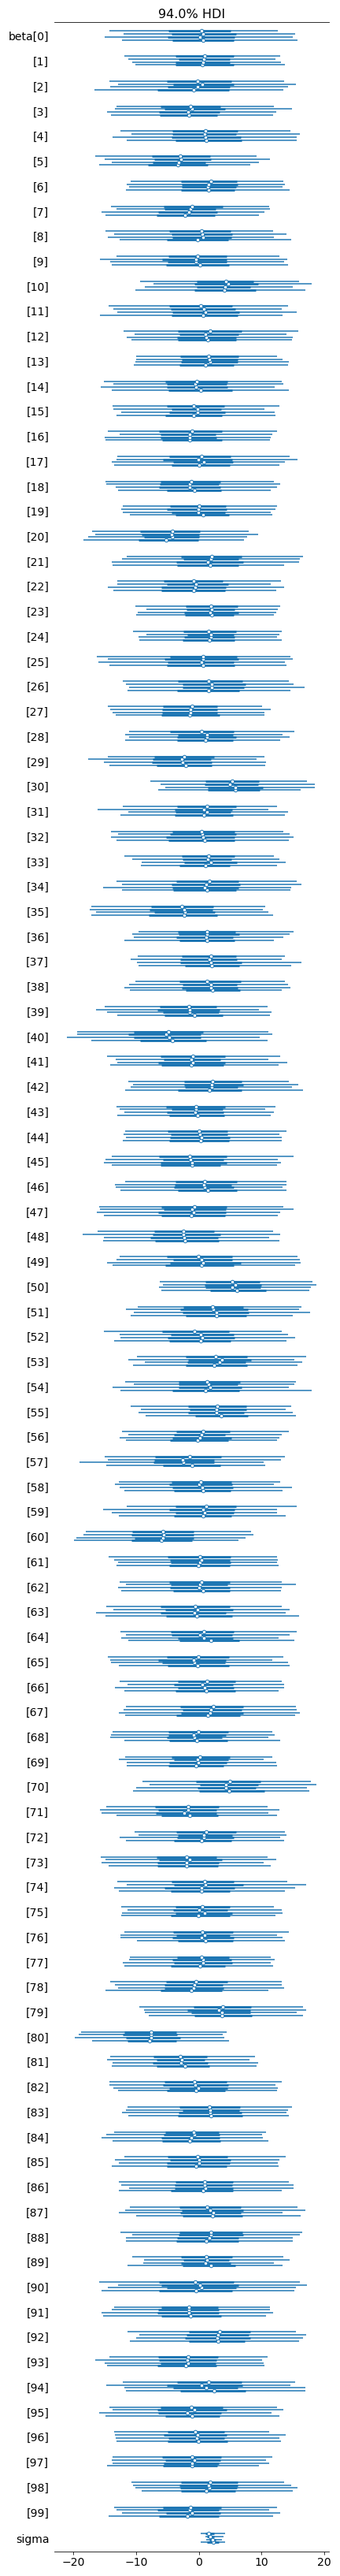
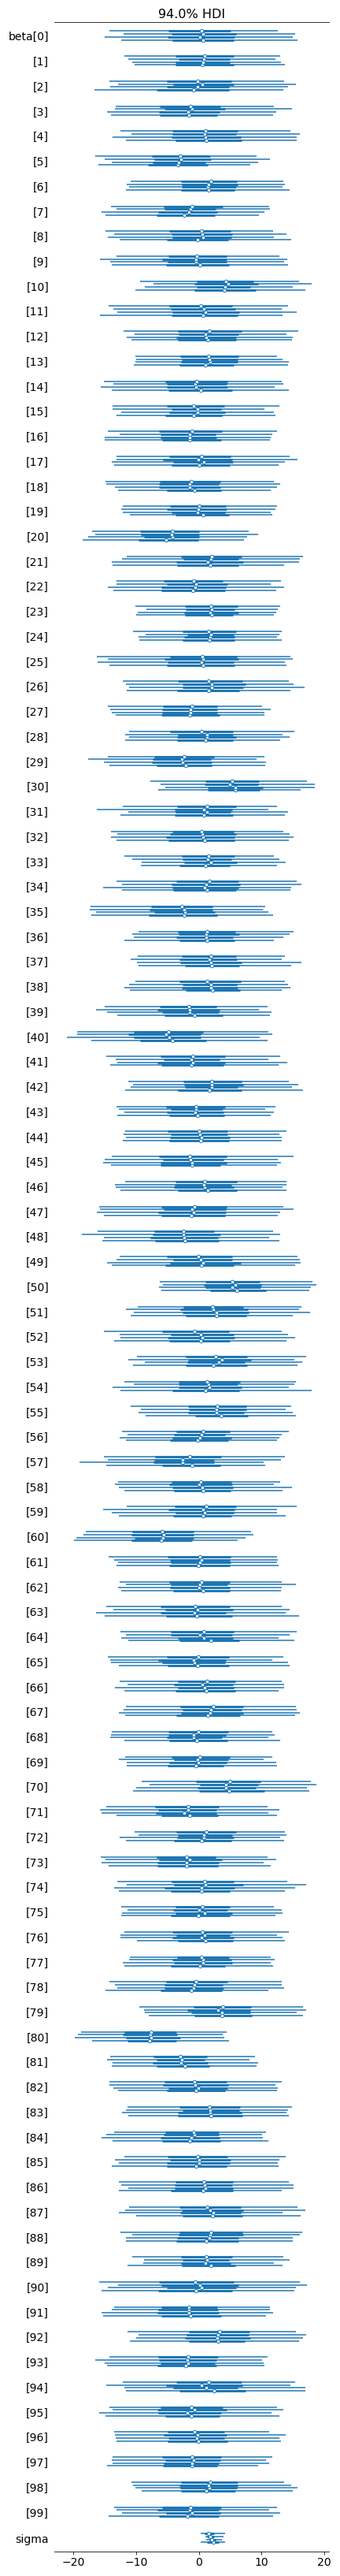
Lec19

Changed region(s): [[0.0602, 0.1873, 0.1505, 0.6867], [0.0602, 0.7803, 0.1505, 0.9988], [0.0903, 0.1248, 0.1505, 0.1561]]

diff --git a/static/slides/Lec19.html b/static/slides/Lec19.html
@@ -189,7 +189,7 @@ norm.x.distribution
 ```
 
 ```
-## &lt;pymc3.distributions.continuous.Normal object at 0x2aad079d0&gt;
+## &lt;pymc3.distributions.continuous.Normal object at 0x2b4beea30&gt;
 ```
 
 ```python
@@ -205,7 +205,7 @@ norm.model
 ```
 
 ```
-## &lt;pymc3.model.Model object at 0x16af300d0&gt;
+## &lt;pymc3.model.Model object at 0x1763391c0&gt;
 ```
 
 ```python
@@ -213,7 +213,7 @@ norm
 ```
 
 ```
-## &lt;pymc3.model.Model object at 0x16af300d0&gt;
+## &lt;pymc3.model.Model object at 0x1763391c0&gt;
 ```
 ]
 
@@ -224,7 +224,7 @@ norm.x.random()
 ```
 
 ```
-## array(-0.44956)
+## array(-0.72791)
 ```
 
 ```python
@@ -232,7 +232,7 @@ norm.y.random()
 ```
 
 ```
-## array([0.32822, 0.00491, 0.3799 ])
+## array([-0.55974, -0.36685, -1.39941])
 ```
 
 ```python
@@ -272,7 +272,7 @@ norm.y.random()
 ```
 
 ```
-## array([0.1263 , 0.67459, 0.97429])
+## array([1.35141, 1.72697, 1.90376])
 ```
 
 --
@@ -284,7 +284,7 @@ np.mean(obs)
 ```
 
 ```
-## -0.048268668390468485
+## -0.03650961861801114
 ```
 
 ```python
@@ -292,7 +292,7 @@ np.var(obs)
 ```
 
 ```
-## 2.0215074365042063
+## 1.9445967710025949
 ```
 
 ```python
@@ -300,7 +300,7 @@ np.std(obs)
 ```
 
 ```
-## 1.421797255766168
+## 1.3944879960051986
 ```
 
 --
@@ -338,7 +338,7 @@ with beta_binom:
 ## Initializing NUTS using jitter+adapt_diag...
 ## Multiprocess sampling (4 chains in 4 jobs)
 ## NUTS: [p]
-## Sampling 4 chains for 1_000 tune and 1_000 draw iterations (4_000 + 4_000 draws total) took 5 seconds.
+## Sampling 4 chains for 1_000 tune and 1_000 draw iterations (4_000 + 4_000 draws total) took 6 seconds.
 ```
 
 ---
@@ -433,11 +433,11 @@ print(trace.posterior)
 ## Data variables:
 ##     p        (chain, draw) float64 0.4051 0.4491 0.4985 ... 0.353 0.3691 0.3691
 ## Attributes:
-##     created_at:                 2022-03-18T03:38:22.690973
+##     created_at:                 2022-03-18T13:28:45.852102
 ##     arviz_version:              0.11.4
 ##     inference_library:          pymc3
 ##     inference_library_version:  3.11.5
-##     sampling_time:              5.483888149261475
+##     sampling_time:              5.686646938323975
 ##     tuning_steps:               1000
 ```
 
@@ -948,12 +948,6 @@ beta = np.zeros(shape=k)
 beta[[10,30,50,70]] =  10
 beta[[20,40,60,80]] = -10
 
-#beta = np.random.normal(0,0.25, shape=k)
-#beta[[10,30,50,70]] = beta[[10,30,50,70]]*4 +  10
-#beta[[20,40,60,80]] = beta[[20,40,60,80]]*4 + -10
-
-
-
 y = X @ beta + np.random.normal(size=n)
 ```
 
@@ -966,11 +960,8 @@ y = X @ beta + np.random.normal(size=n)
 
 ```python
 with pm.Model() as bayes_lasso:
-  #lam = 3
-  #tau = pm.Uniform("tau", 0, 1000)
   b = pm.Laplace("beta", 0, 1, shape=k)#lam*tau, shape=k)
   y_est = X @ b
-  
   s = pm.HalfNormal('sigma', sd=1)
   
   likelihood = pm.Normal("y", mu=y_est, sigma=s, observed=y)
@@ -1100,7 +1091,7 @@ with pm.Model() as bayes_weak:
 ## Initializing NUTS using jitter+adapt_diag...
 ## Multiprocess sampling (4 chains in 4 jobs)
 ## NUTS: [sigma, beta]
-## Sampling 4 chains for 1_000 tune and 1_000 draw iterations (4_000 + 4_000 draws total) took 235 seconds.
+## Sampling 4 chains for 1_000 tune and 1_000 draw iterations (4_000 + 4_000 draws total) took 56 seconds.
 ## The acceptance probability does not match the target. It is 0.9760397075294559, but should be close to 0.8. Try to
    increase the number of tuning steps.
 ## The chain reached the maximum tree depth. Increase max_treedepth, increase target_accept or reparameterize.

diff --git a/Lec19_notes.py b/Lec19_notes.py
@@ -1,0 +1,170 @@
+# Demo 1 - Linear regression
+
+Given the below data, we will fit a linear regression model to the following synthetic data,
+
+np.random.seed(1234)
+n = 11
+m = 6
+b = 2
+x = np.linspace(0, 1, n)
+y = m*x + b + np.random.randn(n)
+
+## Model
+
+with pm.Model() as lm:
+  m = pm.Normal('m', mu=0, sd=50)
+  b = pm.Normal('b', mu=0, sd=50)
+  sigma = pm.HalfNormal('sigma', sd=5)
+  
+  likelihood = pm.Normal('y', mu=m*x + b, sd=sigma, observed=y)
+  
+  trace = pm.sample(return_inferencedata=True, random_seed=1234)
+
+az.summary(trace)
+
+ax = az.plot_trace(trace)
+plt.show()
+
+ax = az.plot_posterior(trace, ref_val=[6,2,1])
+plt.show()
+
+
+## Posterior Predictive 1
+
+plt.scatter(x, y, s=30, label='data')
+
+post_m = trace.posterior['m'][0, -500:]
+post_b = trace.posterior['b'][0, -500:]
+
+plt.figure(layout="constrained")
+plt.scatter(x, y, s=30, label='data')
+for m, b in zip(post_m.values, post_b.values):
+    plt.plot(x, m*x + b, c='gray', alpha=0.1)
+plt.plot(x, 6*x + 2, label='true regression line', lw=3., c='red')
+plt.legend(loc='best')
+plt.show()
+
+
+## Posterior Predictive 2
+
+
+with lm:
+  pp = pm.sample_posterior_predictive(trace, samples=200)
+  
+pp['y'].shape
+
+
+plt.figure(layout="constrained")
+plt.plot(x, pp['y'].T, c="grey", alpha=0.1)
+plt.scatter(x, y, s=30, label='data')
+plt.show()
+
+
+## Model revision
+
+
+with pm.Model() as lm2:
+  m = pm.Normal('m', mu=0, sd=50)
+  b = pm.Normal('b', mu=0, sd=50)
+  sigma = pm.HalfNormal('sigma', sd=5)
+  
+  y_est = pm.Deterministic("y_est", m*x + b)
+  
+  likelihood = pm.Normal('y', mu=y_est, sd=sigma, observed=y)
+  
+  trace = pm.sample(return_inferencedata=True, random_seed=1234)
+  pp = pm.sample_posterior_predictive(trace, var_names=["y_est"], samples=200)
+
+
+## Posterior Predictive 3
+
+plt.figure(layout="constrained")
+ax = az.plot_trace(trace, compact=False, figsize=(6,12))
+plt.show()
+
+
+pp['y_est'].shape
+
+plt.figure(layout="constrained")
+plt.plot(x, pp['y_est'].T, c="grey", alpha=0.1)
+plt.scatter(x, y, s=30, label='data')
+plt.show()
+
+
+# Demo 2 - Bayesian Lasso
+
+
+n = 50
+k = 100
+
+np.random.seed(1234)
+X = np.random.normal(size=(n, k))
+
+beta = np.zeros(shape=k)
+beta[[10,30,50,70]] =  10
+beta[[20,40,60,80]] = -10
+
+y = X @ beta + np.random.normal(size=n)
+
+
+## Naive Model
+
+
+with pm.Model() as bayes_lasso:
+  b = pm.Laplace("beta", 0, 1, shape=k)#lam*tau, shape=k)
+  y_est = X @ b
+  
+  s = pm.HalfNormal('sigma', sd=1)
+  
+  likelihood = pm.Normal("y", mu=y_est, sigma=s, observed=y)
+  
+  trace = pm.sample(return_inferencedata=True, random_seed=1234)
+
+
+az.summary(trace)
+az.summary(trace).iloc[[0,10,20,30,40,50,60,70,80,100]]
+
+
+ax = az.plot_forest(trace)
+plt.tight_layout()
+plt.show()
+
+
+
+
+## Plot helper
+
+def plot_slope(trace, prior="beta", chain=0):
+  post = (trace.posterior[prior]
+          .to_dataframe()
+          .reset_index()
+          .query("chain == 0")
+         )
+  
+  sns.catplot(x="beta_dim_0", y="beta", data=post, kind="boxen", linewidth=0, color='blue', aspect=2, showfliers=False)
+  plt.tight_layout()
+  plt.show()
+  
+
+
+plot_slope(trace)
+
+## Weakly Informative Prior
+
+
+with pm.Model() as bayes_weak:
+  b = pm.Normal("beta", 0, 10, shape=k)
+  y_est = X @ b
+  
+  s = pm.HalfNormal('sigma', sd=2)
+  
+  likelihood = pm.Normal("y", mu=y_est, sigma=s, observed=y)
+  
+  trace = pm.sample(return_inferencedata=True, random_seed=12345)
+
+ax = az.plot_forest(trace)
+plt.tight_layout()
+plt.show()
+
+plot_slope(trace)
+
